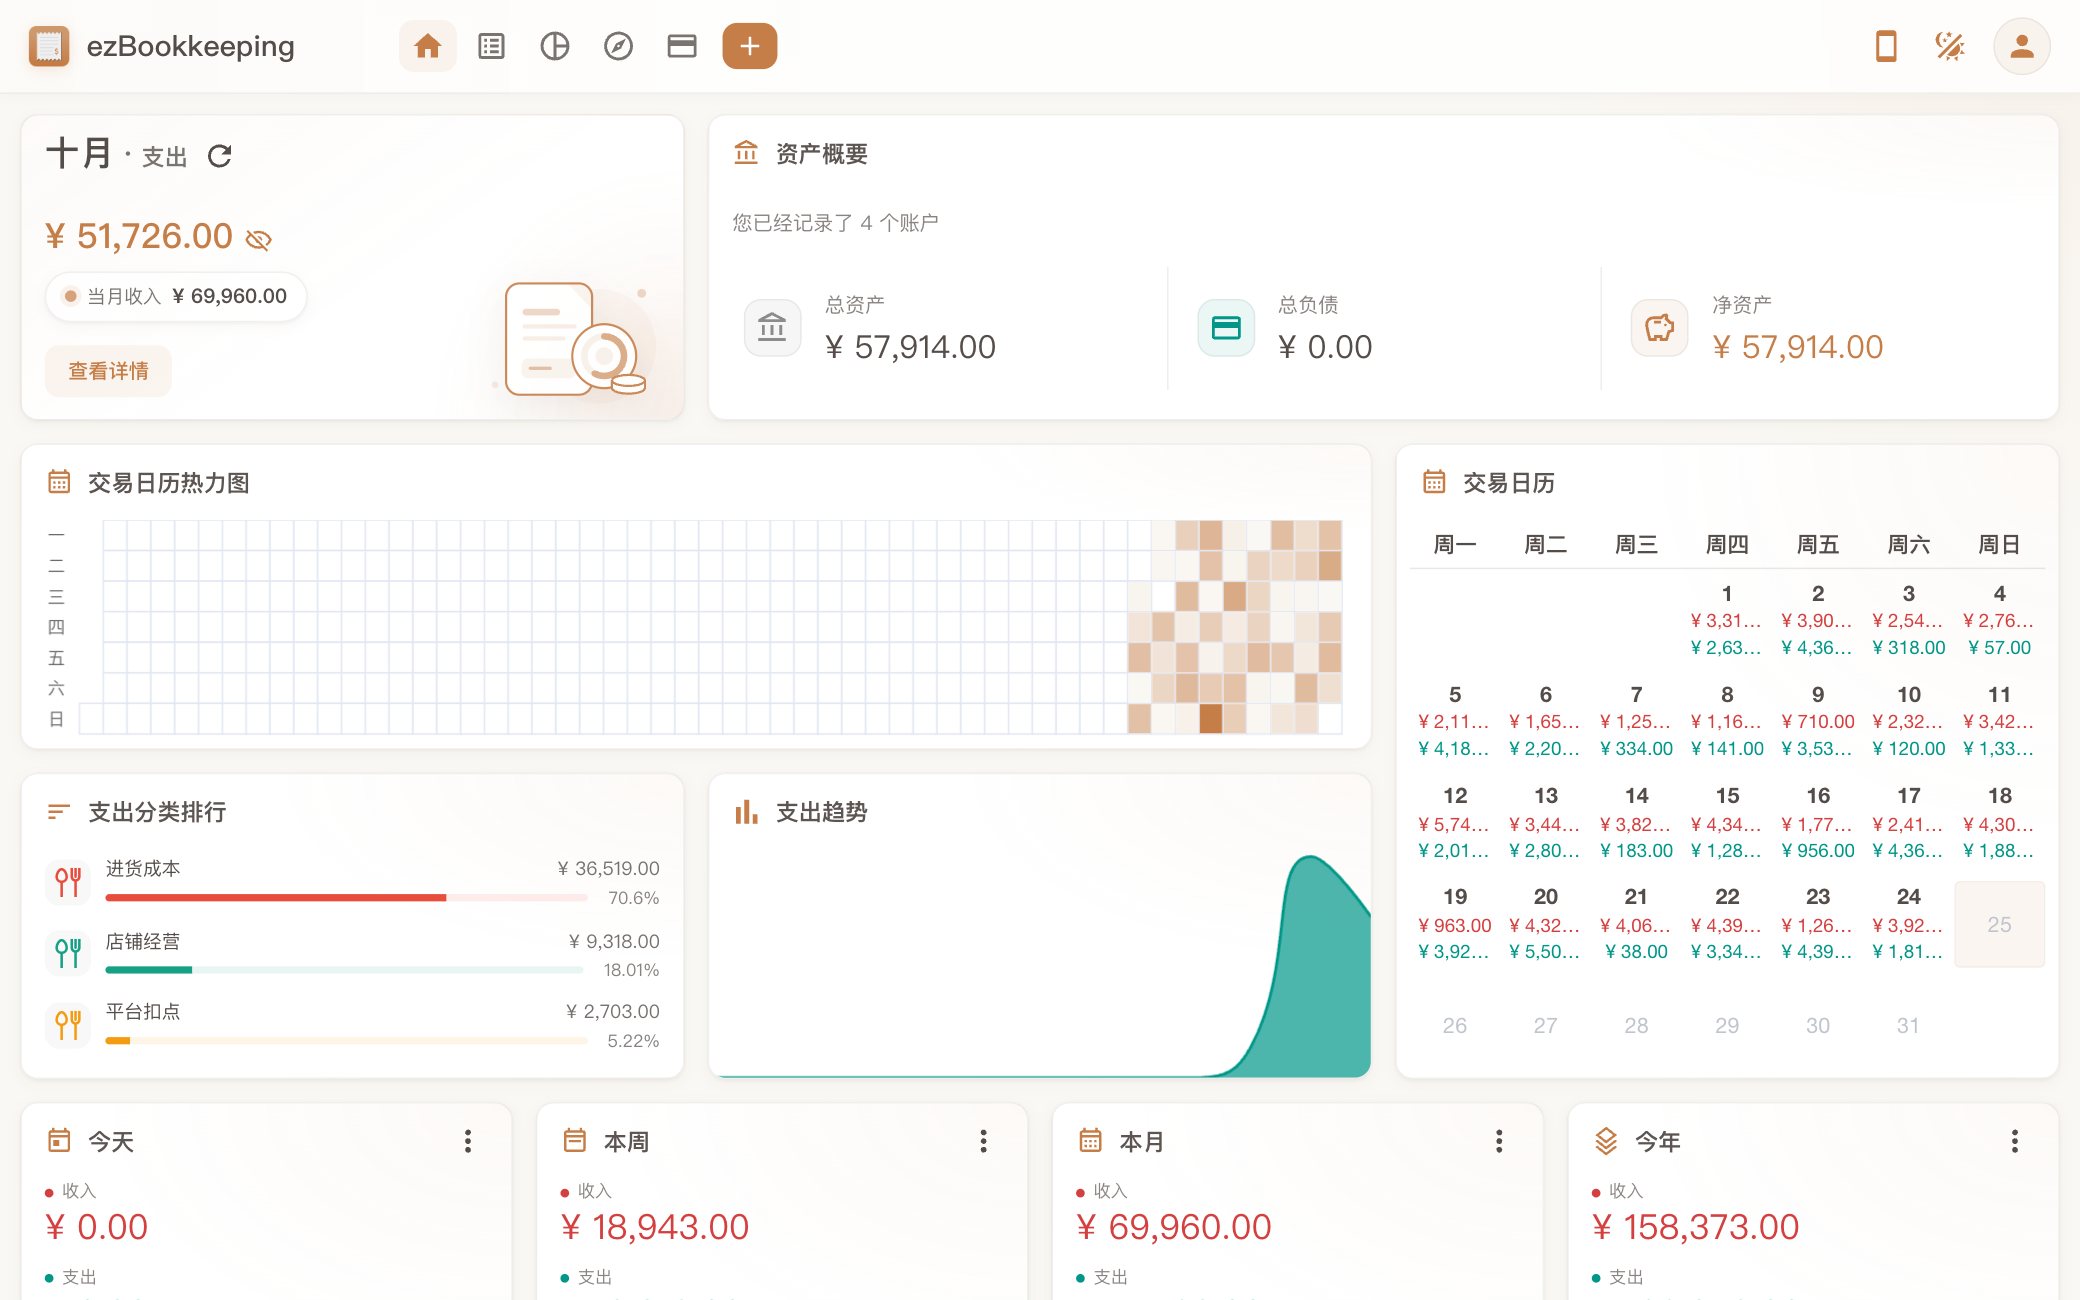
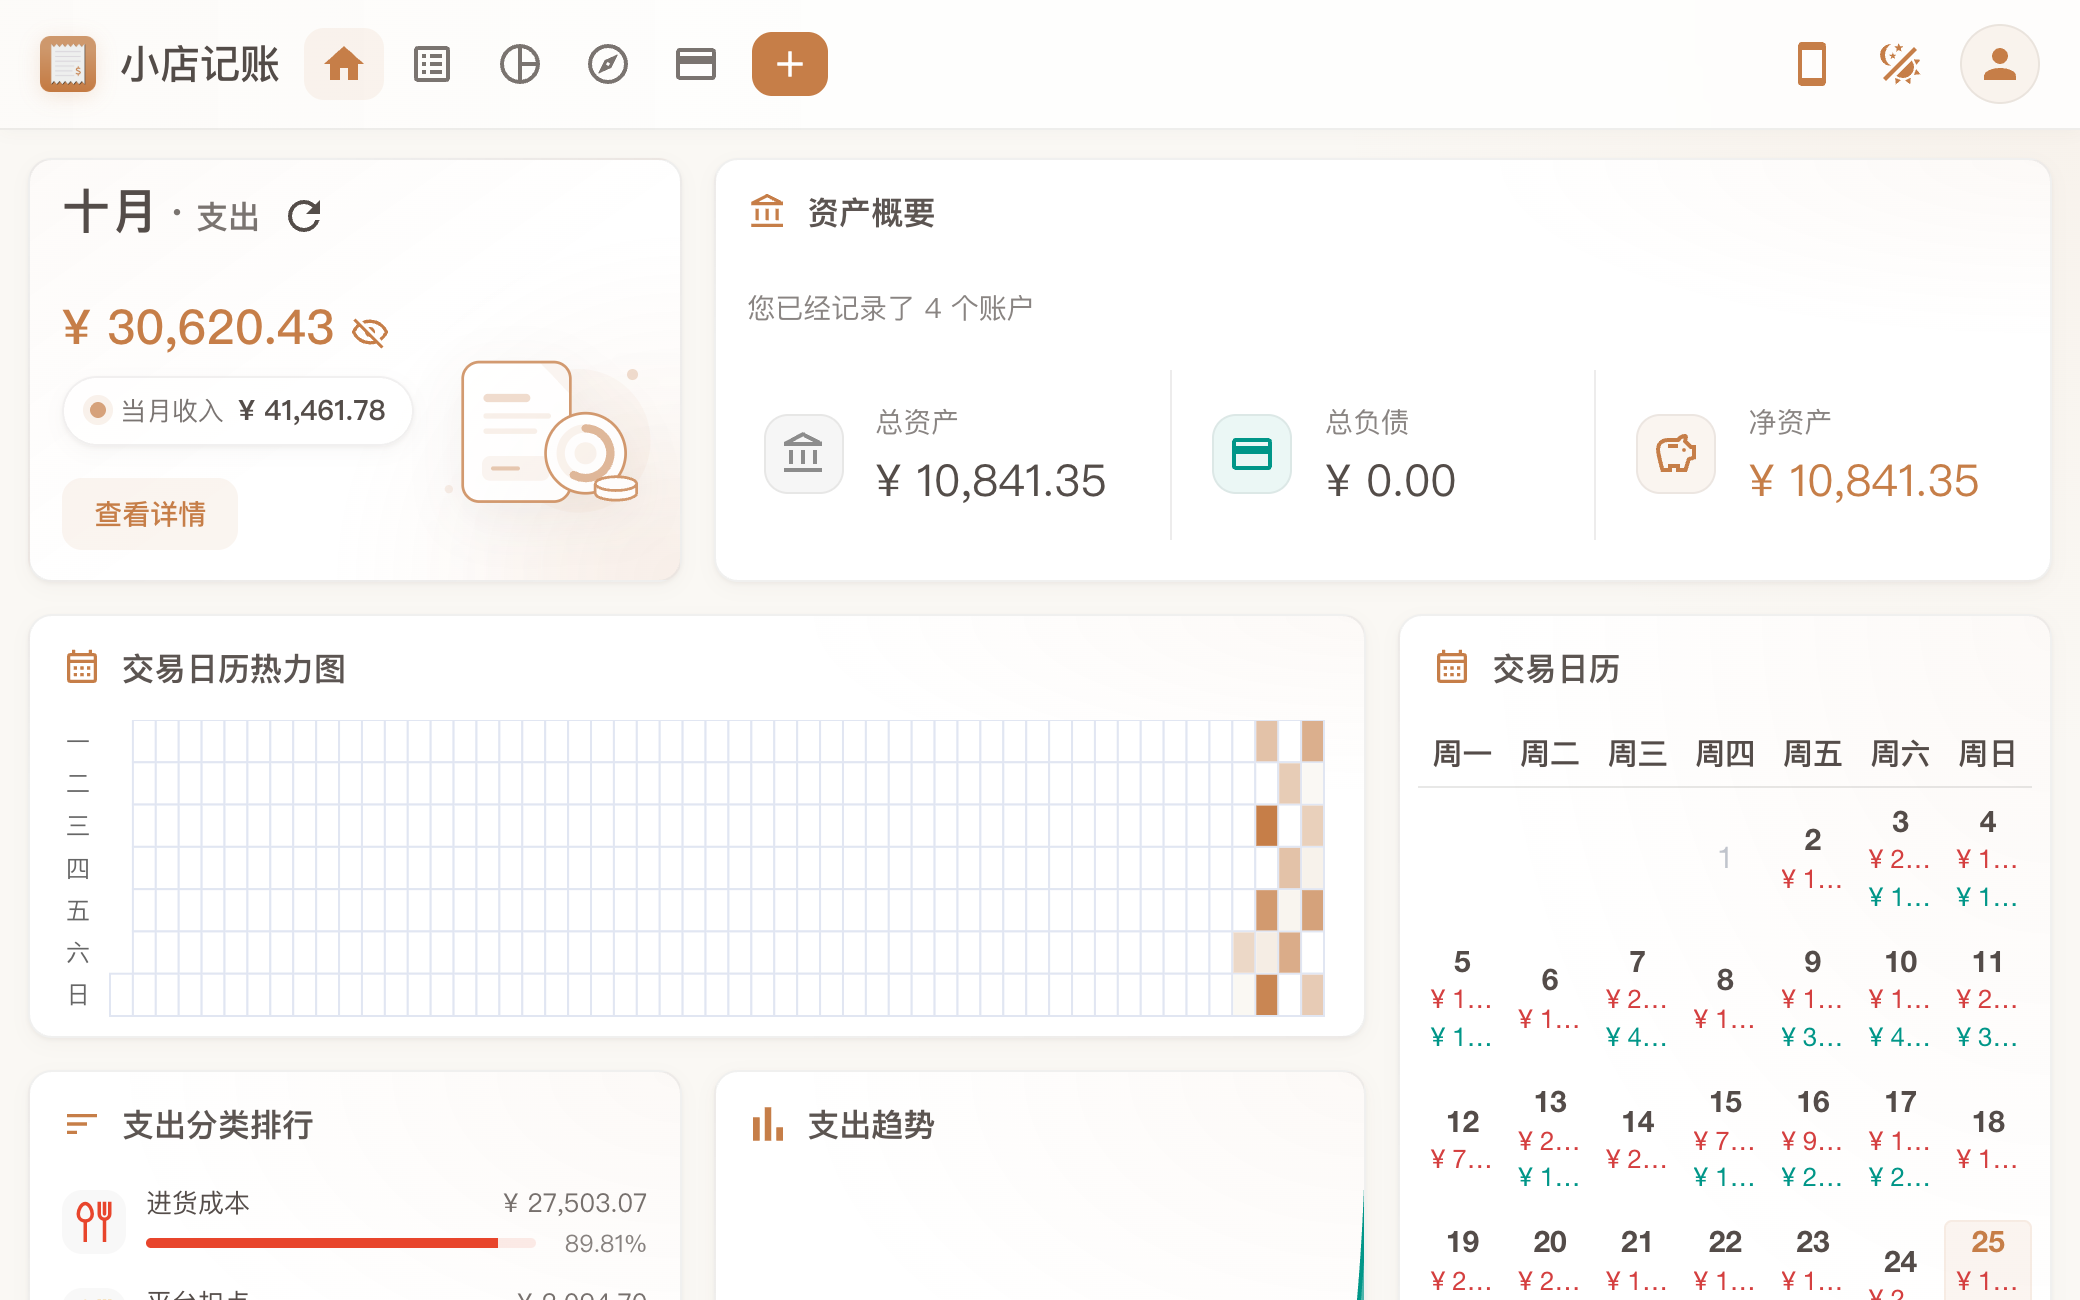
篝火：简体中文界面应用名改为「小店记账」，重截截图，升 2.1.1-campfire.2

diff --git a/src/mobile.html b/src/mobile.html
@@ -7,12 +7,12 @@
     <meta name="viewport" content="width=device-width, initial-scale=1, maximum-scale=1, minimum-scale=1, user-scalable=no, viewport-fit=cover">
     <meta name="mobile-web-app-capable" content="yes">
     <meta name="apple-mobile-web-app-capable" content="yes"/>
-    <meta name="apple-mobile-web-app-title" content="ezBookkeeping"/>
+    <meta name="apple-mobile-web-app-title" content="小店记账"/>
     <meta name="apple-mobile-web-app-status-bar-style" content="black-translucent"/>
     <meta name="theme-color" content="#f6f6f8">
     <meta name="format-detection" content="telephone=no"/>
-    <meta name="description" content="ezBookkeeping is an open source, powerful, self-hosted personal finance app that is easy to use.">
-    <title>ezBookkeeping</title>
+    <meta name="description" content="小店记账：开源、自托管的记账应用，基于 ezBookkeeping 修改。">
+    <title>小店记账</title>
     <link rel="shortcut icon" type="image/x-icon" href="favicon.ico">
     <link rel="apple-touch-icon" href="touchicon.png">
     <link rel="apple-touch-startup-image" media="screen and (device-width: 440px) and (device-height: 956px) and (-webkit-device-pixel-ratio: 3) and (orientation: landscape)" href="img/splash_screens/iPhone_17_Pro_Max__iPhone_16_Pro_Max_landscape.png">

diff --git a/src/desktop.html b/src/desktop.html
@@ -7,12 +7,12 @@
     <meta name="viewport" content="width=device-width, initial-scale=1, maximum-scale=1, user-scalable=no, minimal-ui, viewport-fit=cover">
     <meta name="mobile-web-app-capable" content="yes">
     <meta name="apple-mobile-web-app-capable" content="yes"/>
-    <meta name="apple-mobile-web-app-title" content="ezBookkeeping"/>
+    <meta name="apple-mobile-web-app-title" content="小店记账"/>
     <meta name="apple-mobile-web-app-status-bar-style" content="default"/>
     <meta name="theme-color" content="#faf8f4">
     <meta name="format-detection" content="telephone=no"/>
-    <meta name="description" content="ezBookkeeping is an open source, powerful, self-hosted personal finance app that is easy to use.">
-    <title>ezBookkeeping</title>
+    <meta name="description" content="小店记账：开源、自托管的记账应用，基于 ezBookkeeping 修改。">
+    <title>小店记账</title>
     <link rel="shortcut icon" type="image/x-icon" href="favicon.ico">
     <link rel="apple-touch-icon" href="touchicon.png">
     <link rel="apple-touch-startup-image" media="screen and (device-width: 440px) and (device-height: 956px) and (-webkit-device-pixel-ratio: 3) and (orientation: landscape)" href="img/splash_screens/iPhone_17_Pro_Max__iPhone_16_Pro_Max_landscape.png">

diff --git a/src/index.html b/src/index.html
@@ -7,12 +7,12 @@
     <meta name="viewport" content="width=device-width, initial-scale=1, maximum-scale=1, user-scalable=no, minimal-ui, viewport-fit=cover">
     <meta name="mobile-web-app-capable" content="yes">
     <meta name="apple-mobile-web-app-capable" content="yes"/>
-    <meta name="apple-mobile-web-app-title" content="ezBookkeeping"/>
+    <meta name="apple-mobile-web-app-title" content="小店记账"/>
     <meta name="apple-mobile-web-app-status-bar-style" content="default"/>
     <meta name="theme-color" content="#c67e48">
     <meta name="format-detection" content="telephone=no"/>
-    <meta name="description" content="ezBookkeeping is an open source, powerful, self-hosted personal finance app that is easy to use.">
-    <title>ezBookkeeping</title>
+    <meta name="description" content="小店记账：开源、自托管的记账应用，基于 ezBookkeeping 修改。">
+    <title>小店记账</title>
     <link rel="shortcut icon" type="image/x-icon" href="favicon.ico">
     <link rel="apple-touch-icon" href="touchicon.png">
     <link rel="apple-touch-startup-image" media="screen and (device-width: 440px) and (device-height: 956px) and (-webkit-device-pixel-ratio: 3) and (orientation: landscape)" href="img/splash_screens/iPhone_17_Pro_Max__iPhone_16_Pro_Max_landscape.png">

diff --git a/vite.config.ts b/vite.config.ts
@@ -157,9 +157,9 @@ export default defineConfig(() => {
                 injectRegister: false,
                 manifestFilename: 'manifest.json',
                 manifest: {
-                    name: 'ezBookkeeping',
-                    short_name: 'ezBookkeeping',
-                    description: 'An open source, powerful, self-hosted personal finance app that is easy to use.',
+                    name: '小店记账',
+                    short_name: '小店记账',
+                    description: '开源、自托管的记账应用，基于 ezBookkeeping 修改。',
                     theme_color: '#C67E48',
                     background_color: '#F6F7F8',
                     start_url: './',

diff --git a/README.md b/README.md
@@ -33,11 +33,11 @@ docker compose up -d
 - 登录页右下角的语言名称（例如 English）点开，选「中文 (简体)」。
 - 登录后点右上角头像进入「用户设置」，在「用户信息」页的「语言 / Language」一栏选「中文 (简体)」，保存。
 
-截图中的「ezBookkeeping」是上游软件自己的名称，界面里没有中文名。
+简体中文界面里的应用名（页头、登录页、浏览器标签页标题、手机添加到主屏幕的名称、导出文件名）已改为「小店记账」；登录页底部和「关于」里仍保留上游项目名 ezBookkeeping 和版本号，作为原作者致谢。
 
 ## 小店常用收支分类（建议）
 
-本仓库没有改上游代码，下面只是推荐清单，请自己在软件里添加。
+本仓库没有改功能代码（只改了简体中文语言包和页面标题里的应用名），下面只是推荐清单，请自己在软件里添加。
 
 | 类型 | 一级分类 | 可细分的二级分类 |
 |---|---|---|
